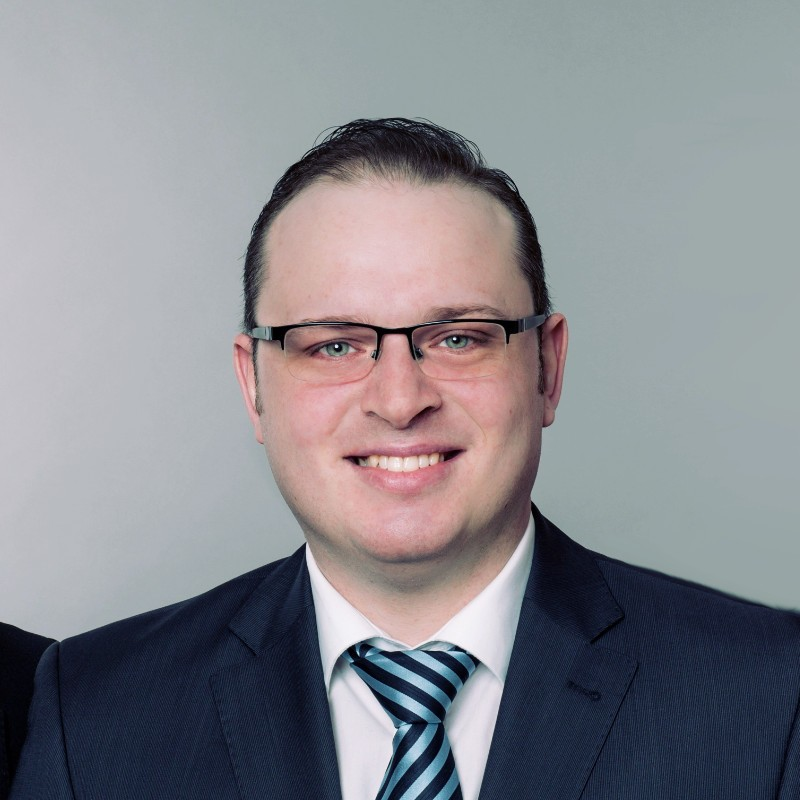
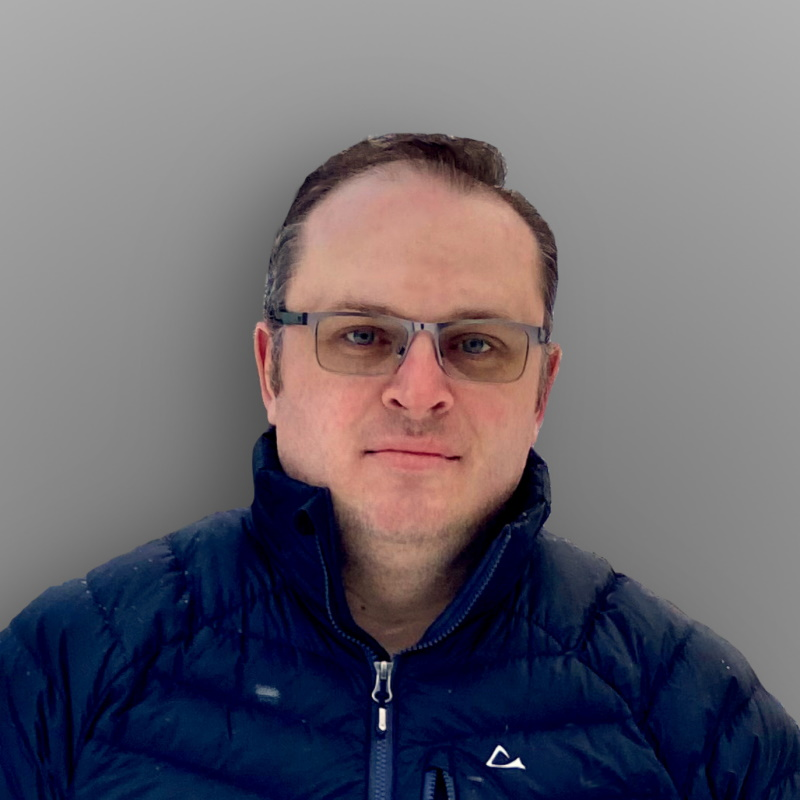
removed hire me section and updated picture

diff --git a/index.html b/index.html
@@ -78,7 +78,7 @@
 				<div class="col-md-8">
 					<h2>Hi There!</h2>
 					<p>Something cool about me ...</p>
-					<p>Let me think ...</p>
+					<p>Loading ... Please wait ...</p>
 					<p>
 						<ul class="fh5co-social-icons">
 							<li><a href="https://twitter.com/EddiFreiter" target="blank"><i class="icon-twitter2"></i></a></li>
@@ -104,15 +104,51 @@
 						<li class="timeline-heading text-center animate-box">
 							<div><h3>Work Experience</h3></div>
 						</li>
+						<li class="animate-box timeline-unverted">
+							<div class="timeline-badge"><i class="icon-suitcase"></i></div>
+							<div class="timeline-panel">
+								<div class="timeline-heading">
+									<h3 class="timeline-title">Edmonton Exchanger</h3>
+									<span class="company"><a href="https://www.edmontonexchanger.com/" target="blank">Senior Research & Development Lead - 2022 - Present</a></span>
+								</div>
+								<div class="timeline-body">
+									<p>Something cool ...</p>
+								</div>
+							</div>
+						</li>
 						<li class="animate-box timeline-inverted">
 							<div class="timeline-badge"><i class="icon-suitcase"></i></div>
 							<div class="timeline-panel">
 								<div class="timeline-heading">
-									<h3 class="timeline-title">Entrepreneurial Experience</h3>
-									<span class="company">Small Business Support (MSP) - 2008 - 2020</span>
+									<h3 class="timeline-title">Edmonton Exchanger</h3>
+									<span class="company"><a href="https://www.edmontonexchanger.com/" target="blank">Machine Automation & Support Technician - 2017 - 2022</a></span>
 								</div>
 								<div class="timeline-body">
-									<p>Support Small businesses with their IT needs. Software, Hardware, Networks, Servers, Phone Systems etc.</p>
+									<p>Something cool ...</p>
+								</div>
+							</div>
+						</li>
+						<li class="animate-box timeline-unverted">
+							<div class="timeline-badge"><i class="icon-suitcase"></i></div>
+							<div class="timeline-panel">
+								<div class="timeline-heading">
+									<h3 class="timeline-title">Edmonton Exchanger</h3>
+									<span class="company"><a href="https://www.edmontonexchanger.com/" target="blank">Full-Stack Software Developer &<br>Automation Technician - 2010 - 2017</a></span>
+								</div>
+								<div class="timeline-body">
+									<p>Something cool ...</p>
+								</div>
+							</div>
+						</li>
+						<li class="animate-box timeline-inverted">
+							<div class="timeline-badge"><i class="icon-suitcase"></i></div>
+							<div class="timeline-panel">
+								<div class="timeline-heading">
+									<h3 class="timeline-title">Edmonton Exchanger</h3>
+									<span class="company"><a href="https://www.edmontonexchanger.com/" target="blank">Computer Analyst - 2007 - 2010</a></span>
+								</div>
+								<div class="timeline-body">
+									<p>Computer hardware and software support.<br>Implemented video survailance system.<br>Came up with a process to streamline hardware rental by Edmonton Exchanger Field Devision.</p>
 								</div>
 							</div>
 						</li>
@@ -121,31 +157,7 @@
 							<div class="timeline-panel">
 								<div class="timeline-heading">
 									<h3 class="timeline-title">Entrepreneurial Experience</h3>
-									<span class="company">Small Business Support (MSP) - 2008 - 2020</span>
-								</div>
-								<div class="timeline-body">
-									<p>Support Small businesses with their IT needs. Software, Hardware, Networks, Servers, Phone Systems etc.</p>
-								</div>
-							</div>
-						</li>
-						<li class="animate-box timeline-inverted">
-							<div class="timeline-badge"><i class="icon-suitcase"></i></div>
-							<div class="timeline-panel">
-								<div class="timeline-heading">
-									<h3 class="timeline-title">Entrepreneurial Experience</h3>
-									<span class="company">Small Business Support (MSP) - 2008 - 2020</span>
-								</div>
-								<div class="timeline-body">
-									<p>Support Small businesses with their IT needs. Software, Hardware, Networks, Servers, Phone Systems etc.</p>
-								</div>
-							</div>
-						</li>
-						<li class="animate-box timeline-unverted">
-							<div class="timeline-badge"><i class="icon-suitcase"></i></div>
-							<div class="timeline-panel">
-								<div class="timeline-heading">
-									<h3 class="timeline-title">Entrepreneurial Experience</h3>
-									<span class="company">Small Business Support (MSP) - 2008 - 2020</span>
+									<span class="company"><a href="https://eddifreiter.netlify.app/" target="blank">Small Business Support (MSP) - 2008 - 2020</a></span>
 								</div>
 								<div class="timeline-body">
 									<p>Support Small businesses with their IT needs. Software, Hardware, Networks, Servers, Phone Systems etc.</p>
@@ -494,7 +506,7 @@
 					</a>
 				</div>
 			</div>
-			<div id="fh5co-contact">
+			<!-- <div id="fh5co-contact">
 				<div class="overlay"></div>
 					<div class="row animate-box">
 						<div class="col-md-8 col-md-offset-2 text-center fh5co-heading">
@@ -503,7 +515,7 @@
 							<p><a href="#" class="btn btn-default btn-lg">Contact Us</a></p>
 						</div>
 					</div>
-			</div>
+			</div> -->
 		</div>
 	</div>
 
